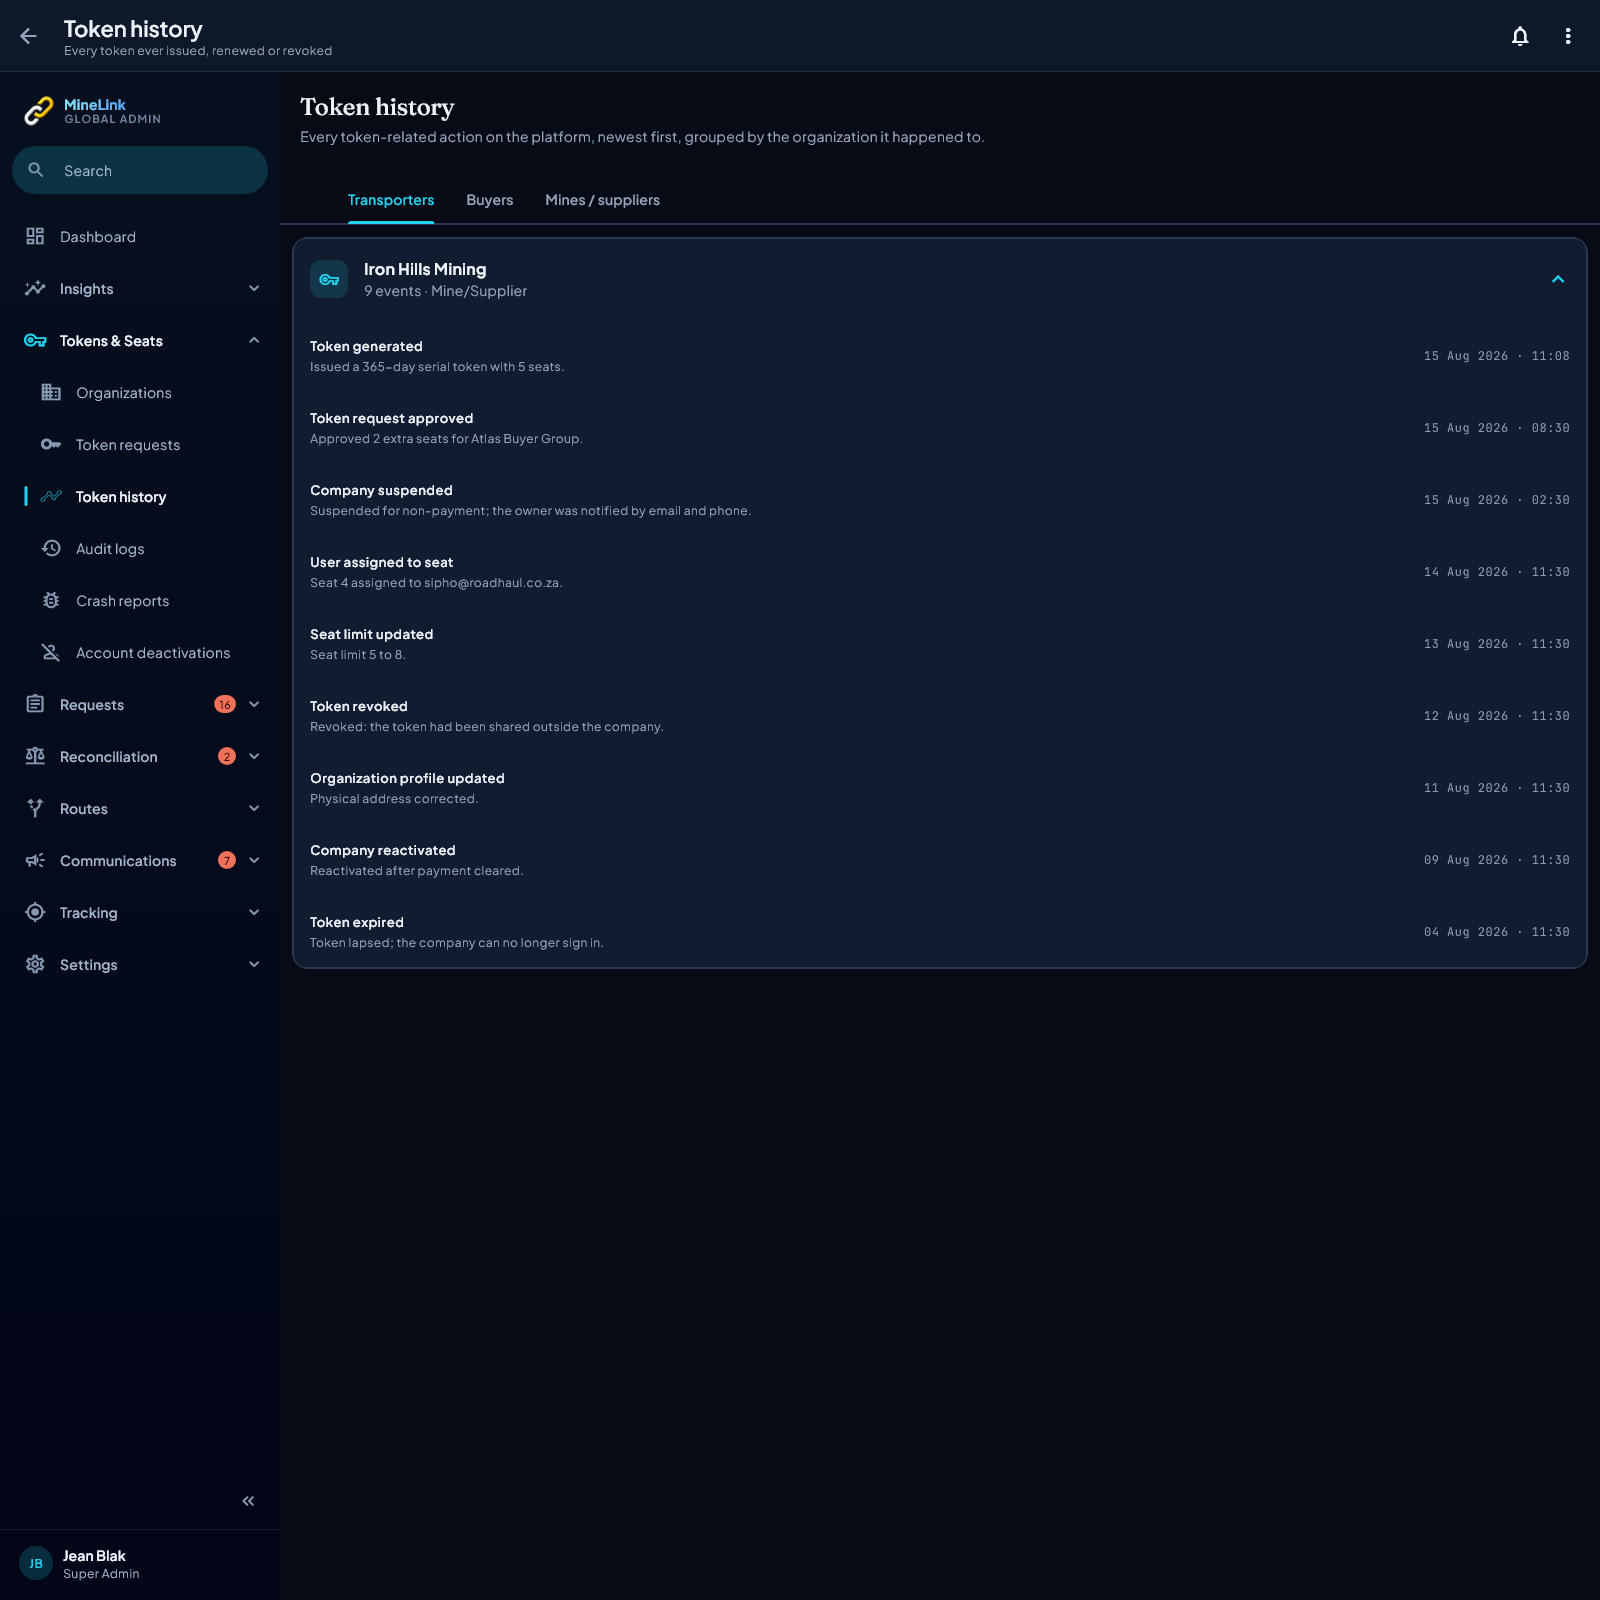
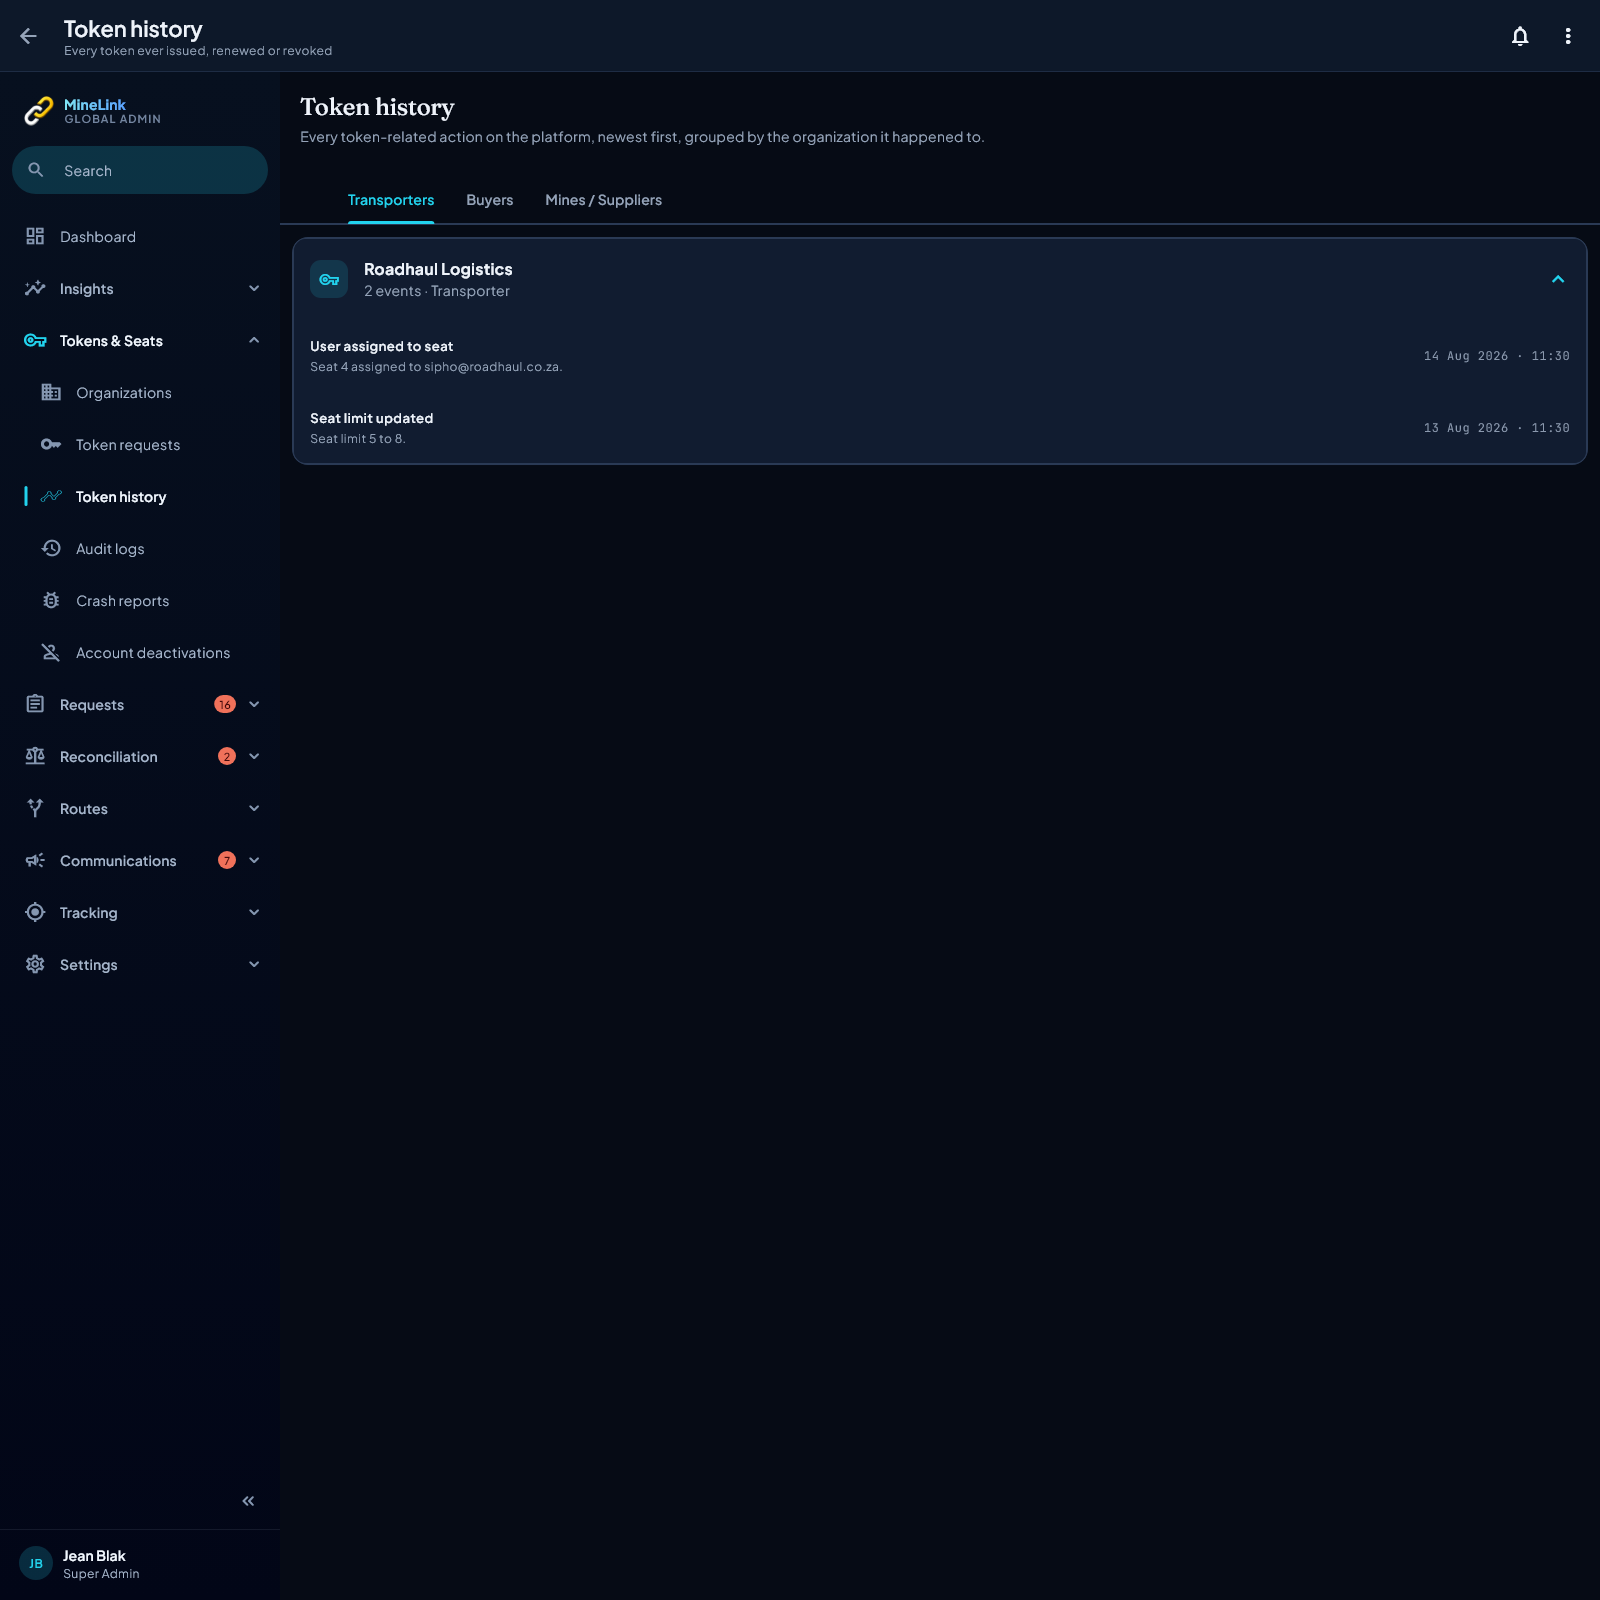
fix(console): token history's tab spells the plural as the console does, and its fixture stops lying
Phase 3 per-screen pass, 2026-08-23. The render showed the Transporters
tab opening on "Iron Hills Mining · 9 events · Mine/Supplier" with
"Approved 2 extra seats for Atlas Buyer Group" inside it. Not the screen:
the fixture gave every audit log organizationId 'o1' whatever company it
named, and the token-history override ignored the org-type key. The screen
groups by id and titles the group with the first name, so it photographed
four companies' events as one mine's, under the wrong tab, for as long as
the fixture has existed.

Fixture: one id per company name; the override hands a tab only its own
org type. The tail test that relied on the lie (a mine's "Token generated"
under Transporters) now asserts Roadhaul's seat assignment, and a new case
pins that Transporters lists Roadhaul and not Iron Hills.

Also the tab read "Mines / suppliers" — lower-case s — while the nav
group, the dashboard card and the targets screens all write
"Mines / Suppliers". Same case pins the tab text.

Sabotaged by stashing the fixture and the screen: the new case fails.
Renders regenerated and looked at: two events under Roadhaul, honest.

Changed region(s): [[0.1562, 0.2188, 1.0, 0.625], [0.2188, 0.1562, 0.3125, 0.1875]]

diff --git a/test/features/super_admin/console_tail_test.dart b/test/features/super_admin/console_tail_test.dart
@@ -253,13 +253,31 @@ void main() {
     // both forms satisfy it; the capitalisation changed because title-casing
     // every word also capitalised "To" and "Of" elsewhere in the same table
     // ("User Assigned To Seat"). See `AuditLog.labelForAction`.
-    expect(find.text('Token generated'), findsWidgets,
+    // The first tab is Transporters, and since 2026-08-23 the fixture only
+    // hands a tab the events of its own org type — so this is Roadhaul's
+    // seat assignment, not a mine's token (which used to sit here because
+    // every fixture log shared one organizationId).
+    expect(find.text('User assigned to seat'), findsWidgets,
         reason: 'the action type is being printed raw again.');
+    expect(find.text('USER_ASSIGNED_TO_SEAT'), findsNothing);
     // `org o1` was the subtitle. A database key is not a fact about a company.
     for (final line in painted(tester)) {
       expect(line.contains('org o1'), isFalse,
           reason: 'the group caption is printing a database id: "$line".');
     }
+  });
+
+  testWidgets('and each token-history tab lists only its own org type',
+      (tester) async {
+    // The fixture used to give every log organizationId 'o1' and ignore the
+    // org-type key, so the Transporters tab opened on "Iron Hills Mining ·
+    // 9 events · Mine/Supplier" with Atlas Buyer Group's approval inside it.
+    await pump(tester, const TokenHistoryScreen(), width: 1600, height: 1600);
+    expect(find.text('Roadhaul Logistics'), findsOneWidget);
+    expect(find.text('Iron Hills Mining'), findsNothing,
+        reason: 'a mine is listed under the Transporters tab');
+    expect(find.text('Mines / Suppliers'), findsOneWidget,
+        reason: 'the tab spells the plural differently from the nav group');
   });
 
   testWidgets('and the token-history screen says what it is', (tester) async {

diff --git a/test/fixtures/console_tail_fixtures.dart b/test/fixtures/console_tail_fixtures.dart
@@ -134,7 +134,14 @@ AuditLog _log(
       actionType: action,
       targetType: targetType,
       targetName: targetName,
-      organizationId: 'o1',
+      // One id PER COMPANY. Every log used to carry 'o1' whatever its name,
+      // so the token-history screen — which groups by organizationId and
+      // titles the group with the first entry's name — rendered nine events
+      // from four companies as "Iron Hills Mining · 9 events", with "Approved
+      // 2 extra seats for Atlas Buyer Group" inside it. A fixture that
+      // contradicts itself photographs a screen that looks broken and is not.
+      // Found 2026-08-23 in the Phase 3 pass.
+      organizationId: orgName == null ? null : 'o-${orgName.hashCode.abs()}',
       organizationName: orgName,
       organizationType: orgType,
       description: description,
@@ -755,7 +762,10 @@ List<Override> consoleTailOverrides() => [
         };
       }),
       auditLogsProvider.overrideWith((ref, _) async => kAuditLogs),
-      tokenHistoryAuditLogsProvider.overrideWith((ref, _) async => kAuditLogs),
+      // The real provider is keyed by org type; an override that ignores the
+      // key put a mine's events under the Transporters tab.
+      tokenHistoryAuditLogsProvider.overrideWith((ref, orgType) async =>
+          kAuditLogs.where((l) => l.organizationType == orgType).toList()),
       organizationTokensProvider.overrideWith((ref, _) async => kOrgTokens),
       organizationSeatsProvider.overrideWith((ref, _) async => kOrgSeats),
       companyUsersGroupedProvider

diff --git a/lib/features/super_admin/screens/token_history_screen.dart b/lib/features/super_admin/screens/token_history_screen.dart
@@ -38,7 +38,11 @@ class _TokenHistoryScreenState extends ConsumerState<TokenHistoryScreen>
   String _tabLabel(String key) {
     switch (key) {
       case 'mineSupplier':
-        return 'Mines / suppliers';
+        // The plural the console writes everywhere else — the nav group,
+        // the dashboard's org-type card, the targets screens. This tab had
+        // a lower-case 'suppliers', a third spelling on the same admin's
+        // screens. Found 2026-08-23 in the Phase 3 pass.
+        return 'Mines / Suppliers';
       case 'buyer':
         return 'Buyers';
       case 'transporter':
